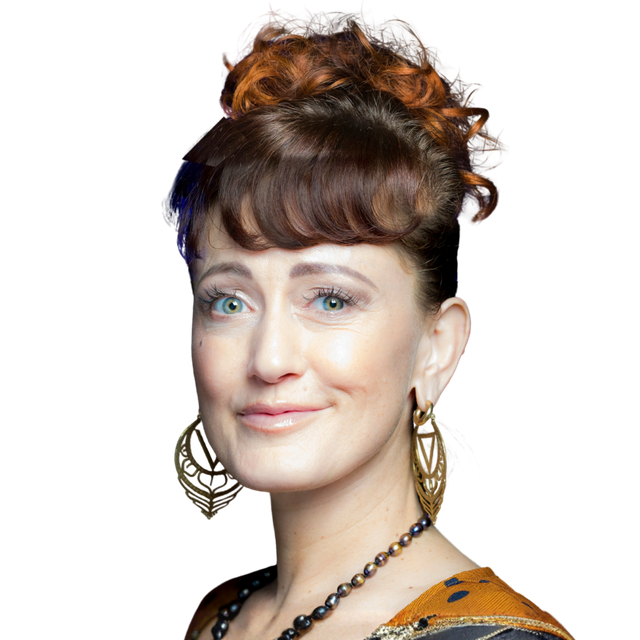
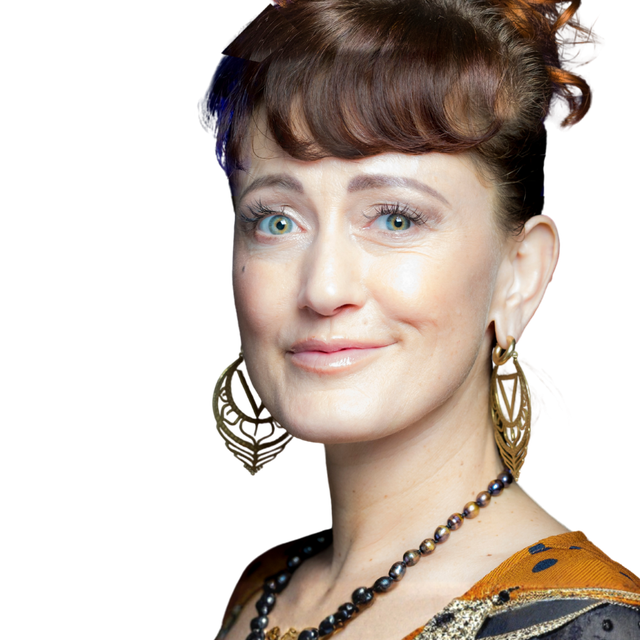
Tight cutouts for all four comedians; refit effects; rename crew seats
Claude-Session: https://claude.ai/code/session_01RNdJaLkAZgGiP9P4nM93yt

diff --git a/site/index.html b/site/index.html
@@ -485,10 +485,10 @@ a.btn.ghost{background:transparent;border:1.5px solid var(--rock);color:var(--ro
     <p>Four seats are taken. Five seats are still open, and you can help fill them.</p>
   </div>
   <div class="board">
-    <div class="slot in star"><div class="pic" data-alter="et" tabindex="0" aria-label="Daniel Flynn: hover or tap for their cosmic alter ego"><img class="portrait" src="assets/img/daniel-flynn-big.jpg?v=2" alt="Daniel Flynn" width="720" height="720" loading="lazy"><svg class="alter" viewBox="0 0 100 100" preserveAspectRatio="xMidYMid slice" aria-hidden="true"><defs><radialGradient id="a-et" cx=".5" cy=".4" r=".8"><stop offset="0" stop-color="#1F5E4A"/><stop offset="1" stop-color="#03110C"/></radialGradient><linearGradient id="et-fade" x1="0" y1="0" x2="0" y2="1"><stop offset="0" stop-color="#000"/><stop offset=".09" stop-color="#fff"/></linearGradient><mask id="et-m" maskContentUnits="userSpaceOnUse"><rect x="0" y="14" width="100" height="86" fill="url(#et-fade)"/></mask><filter id="et-g"><feColorMatrix type="matrix" values=".55 .25 .1 0 0  .3 .9 .15 0 .03  .1 .2 .45 0 0  0 0 0 1 0"/></filter></defs><rect width="100" height="100" fill="url(#a-et)"/><g fill="#fff"><circle cx="8" cy="10" r="0.6"/><circle cx="20" cy="30" r="0.4"/><circle cx="88" cy="12" r="0.7"/><circle cx="76" cy="36" r="0.4"/><circle cx="12" cy="60" r="0.5"/><circle cx="92" cy="58" r="0.6"/><circle cx="6" cy="86" r="0.4"/><circle cx="94" cy="88" r="0.5"/><circle cx="30" cy="8" r="0.4"/><circle cx="68" cy="6" r="0.5"/></g><g transform="translate(80 12)"><ellipse rx="10" ry="3" fill="#B9C3C0"/><ellipse cy="-2" rx="5" ry="3.5" fill="#7FF2C8" opacity=".85"/><path d="M-6 3 L-10 14 H10 L6 3Z" fill="#7FF2C8" opacity=".25"/></g><image href="assets/img/cut/daniel.png" x="7" y="14" width="86" height="86" mask="url(#et-m)" filter="url(#et-g)"/><g fill="none" stroke="#5BE37D" stroke-width="1.6" stroke-linecap="round"><path d="M42 19 Q38 10 32 4"/><path d="M54 19 Q58 10 64 4"/></g><circle cx="32" cy="4" r="3" fill="#7CFF8E"/><circle cx="64" cy="4" r="3" fill="#7CFF8E"/></svg></div><div class="info"><span class="n">01 · Comedian</span><h3>Daniel Flynn</h3><div class="socials"><a href="" target="_blank" rel="noopener" aria-label="Daniel Flynn on Instagram"><svg viewBox="0 0 24 24" aria-hidden="true"><rect x="3" y="3" width="18" height="18" rx="5" fill="none" stroke="currentColor" stroke-width="2"/><circle cx="12" cy="12" r="4" fill="none" stroke="currentColor" stroke-width="2"/><circle cx="17.3" cy="6.7" r="1.3" fill="currentColor"/></svg></a><a href="" target="_blank" rel="noopener" aria-label="Daniel Flynn on TikTok"><svg viewBox="0 0 24 24" aria-hidden="true"><path fill="currentColor" d="M14 3h3a4.5 4.5 0 0 0 4 4v3a7.5 7.5 0 0 1-4-1.2V15a6 6 0 1 1-6-6v3.2a2.8 2.8 0 1 0 3 2.8z"/></svg></a><a href="" target="_blank" rel="noopener" aria-label="Daniel Flynn on YouTube Shorts"><svg viewBox="0 0 24 24" aria-hidden="true"><rect x="2" y="5" width="20" height="14" rx="4" fill="currentColor"/><path d="M10 9v6l5-3z" fill="#0B0B0B"/></svg></a></div><span class="tag">Confirmed</span></div></div>
-    <div class="slot in star"><div class="pic" data-alter="angel" tabindex="0" aria-label="Jesselynn Desmond: hover or tap for their cosmic alter ego"><img class="portrait" src="assets/img/jesselynn-desmond-big.jpg" alt="Jesselynn Desmond" width="720" height="720" loading="lazy"><svg class="alter" viewBox="0 0 100 100" preserveAspectRatio="xMidYMid slice" aria-hidden="true"><defs><radialGradient id="a-an" cx=".5" cy=".3" r=".8"><stop offset="0" stop-color="#FFF8DC"/><stop offset=".6" stop-color="#F6E3A8"/><stop offset="1" stop-color="#E7C66E"/></radialGradient></defs><rect width="100" height="100" fill="url(#a-an)"/><g fill="#fff" stroke="#E9D9A6" stroke-width=".5" opacity=".95"><path d="M40 70 C22 46 4 50 0 66 C8 64 10 70 4 76 C12 74 14 80 8 86 C20 84 30 82 40 78Z"/><path d="M66 70 C84 46 100 50 104 66 C96 64 94 70 100 76 C92 74 90 80 96 86 C84 84 74 82 66 78Z"/></g><image href="assets/img/cut/jesselynn.png" x="7" y="14" width="86" height="86"/><ellipse cx="50" cy="12" rx="12" ry="3.2" fill="none" stroke="#FFD34D" stroke-width="2.2" style="filter:drop-shadow(0 0 2px #FFE58A)"/></svg></div><div class="info"><span class="n">02 · Comedian</span><h3>Jesselynn Desmond</h3><div class="socials"><a href="" target="_blank" rel="noopener" aria-label="Jesselynn Desmond on Instagram"><svg viewBox="0 0 24 24" aria-hidden="true"><rect x="3" y="3" width="18" height="18" rx="5" fill="none" stroke="currentColor" stroke-width="2"/><circle cx="12" cy="12" r="4" fill="none" stroke="currentColor" stroke-width="2"/><circle cx="17.3" cy="6.7" r="1.3" fill="currentColor"/></svg></a><a href="" target="_blank" rel="noopener" aria-label="Jesselynn Desmond on TikTok"><svg viewBox="0 0 24 24" aria-hidden="true"><path fill="currentColor" d="M14 3h3a4.5 4.5 0 0 0 4 4v3a7.5 7.5 0 0 1-4-1.2V15a6 6 0 1 1-6-6v3.2a2.8 2.8 0 1 0 3 2.8z"/></svg></a><a href="" target="_blank" rel="noopener" aria-label="Jesselynn Desmond on YouTube Shorts"><svg viewBox="0 0 24 24" aria-hidden="true"><rect x="2" y="5" width="20" height="14" rx="4" fill="currentColor"/><path d="M10 9v6l5-3z" fill="#0B0B0B"/></svg></a></div><span class="tag">Confirmed</span></div></div>
-    <div class="slot in star"><div class="pic" data-alter="master" tabindex="0" aria-label="Lori Creevay: hover or tap for their cosmic alter ego"><img class="portrait" src="assets/img/lori-creevay-big.jpg" alt="Lori Creevay" width="720" height="720" loading="lazy"><svg class="alter" viewBox="0 0 100 100" preserveAspectRatio="xMidYMid slice" aria-hidden="true"><defs><radialGradient id="a-am" cx=".44" cy=".4" r=".7"><stop offset="0" stop-color="#FFF3FF"/><stop offset=".35" stop-color="#C9A2FF"/><stop offset="1" stop-color="#3A1670"/></radialGradient></defs><rect width="100" height="100" fill="url(#a-am)"/><g stroke="#FFFFFF" stroke-width=".6" opacity=".45"><line x1="44" y1="38" x2="119.0" y2="38.0"/><line x1="44" y1="38" x2="109.0" y2="75.5"/><line x1="44" y1="38" x2="81.5" y2="103.0"/><line x1="44" y1="38" x2="44.0" y2="113.0"/><line x1="44" y1="38" x2="6.5" y2="103.0"/><line x1="44" y1="38" x2="-20.9" y2="75.5"/><line x1="44" y1="38" x2="-31.0" y2="38.0"/><line x1="44" y1="38" x2="-21.0" y2="0.5"/><line x1="44" y1="38" x2="6.5" y2="-26.9"/><line x1="44" y1="38" x2="44.0" y2="-37.0"/><line x1="44" y1="38" x2="81.5" y2="-27.0"/><line x1="44" y1="38" x2="108.9" y2="0.5"/></g><image href="assets/img/cut/lori.png" x="7" y="14" width="86" height="86"/><circle cx="44.4" cy="37.9" r="3" fill="#E9D5FF" opacity=".5"/><circle cx="44.4" cy="37.9" r="1.4" fill="#B26BFF" style="filter:drop-shadow(0 0 2px #fff)"/></svg></div><div class="info"><span class="n">03 · Comedian</span><h3>Lori Creevay</h3><div class="socials"><a href="" target="_blank" rel="noopener" aria-label="Lori Creevay on Instagram"><svg viewBox="0 0 24 24" aria-hidden="true"><rect x="3" y="3" width="18" height="18" rx="5" fill="none" stroke="currentColor" stroke-width="2"/><circle cx="12" cy="12" r="4" fill="none" stroke="currentColor" stroke-width="2"/><circle cx="17.3" cy="6.7" r="1.3" fill="currentColor"/></svg></a><a href="" target="_blank" rel="noopener" aria-label="Lori Creevay on TikTok"><svg viewBox="0 0 24 24" aria-hidden="true"><path fill="currentColor" d="M14 3h3a4.5 4.5 0 0 0 4 4v3a7.5 7.5 0 0 1-4-1.2V15a6 6 0 1 1-6-6v3.2a2.8 2.8 0 1 0 3 2.8z"/></svg></a><a href="" target="_blank" rel="noopener" aria-label="Lori Creevay on YouTube Shorts"><svg viewBox="0 0 24 24" aria-hidden="true"><rect x="2" y="5" width="20" height="14" rx="4" fill="currentColor"/><path d="M10 9v6l5-3z" fill="#0B0B0B"/></svg></a></div><span class="tag">Confirmed</span></div></div>
-    <div class="slot in star"><div class="pic" data-alter="archangel" tabindex="0" aria-label="Dr. David E. Martin: hover or tap for their cosmic alter ego"><img class="portrait" src="assets/img/david-martin-big.jpg" alt="Dr. David E. Martin" width="720" height="720" loading="lazy"><svg class="alter" viewBox="0 0 100 100" preserveAspectRatio="xMidYMid slice" aria-hidden="true"><defs><linearGradient id="d-sky" x1="0" y1="0" x2="0" y2="1"><stop offset="0" stop-color="#BFE3FF"/><stop offset=".7" stop-color="#EAF6FF"/><stop offset="1" stop-color="#FFFFFF"/></linearGradient><linearGradient id="d-fade" x1="0" y1="0" x2="0" y2="1"><stop offset="0" stop-color="#000"/><stop offset=".1" stop-color="#fff"/></linearGradient><mask id="d-m" maskContentUnits="userSpaceOnUse"><rect x="0" y="14" width="100" height="86" fill="url(#d-fade)"/></mask></defs><rect width="100" height="100" fill="url(#d-sky)"/><g fill="#FFFFFF" opacity=".55"><polygon points="56,-5 20,100 34,100"/><polygon points="56,-5 78,100 92,100"/></g><g fill="#FFFFFF"><ellipse cx="14" cy="88" rx="18" ry="7"/><ellipse cx="28" cy="92" rx="16" ry="8"/><ellipse cx="86" cy="90" rx="20" ry="8"/><ellipse cx="70" cy="95" rx="16" ry="7"/></g><g fill="#fff" stroke="#C9DDF0" stroke-width=".5"><path d="M44 66 C26 40 6 40 0 58 C8 56 10 62 3 68 C12 66 14 72 7 78 C20 78 32 76 44 74Z"/><path d="M76 66 C90 40 104 40 108 58 C100 56 98 62 104 68 C96 66 94 72 100 78 C88 78 80 76 76 74Z"/></g><image href="assets/img/cut/david.png" x="7" y="14" width="86" height="86" mask="url(#d-m)"/><ellipse cx="56" cy="9" rx="14" ry="3.6" fill="none" stroke="#FFD34D" stroke-width="2.4" style="filter:drop-shadow(0 0 2px #FFE58A)"/><g fill="#FFE58A"><path d="M20 20l1.2 3 3 1.2-3 1.2-1.2 3-1.2-3-3-1.2 3-1.2z"/><path d="M84 26l1 2.5 2.5 1-2.5 1-1 2.5-1-2.5-2.5-1 2.5-1z"/><path d="M90 8l.8 2 2 .8-2 .8-.8 2-.8-2-2-.8 2-.8z"/></g></svg></div><div class="info"><span class="n">04 · Comedian</span><h3>Dr. David E. Martin</h3><span class="tag">Confirmed</span></div></div>
+    <div class="slot in star"><div class="pic" data-alter="et" tabindex="0" aria-label="Daniel Flynn: hover or tap for their cosmic alter ego"><img class="portrait" src="assets/img/daniel-flynn-tight.jpg" alt="Daniel Flynn" width="720" height="720" loading="lazy"><svg class="alter" viewBox="0 0 100 100" preserveAspectRatio="xMidYMid slice" aria-hidden="true"><defs><radialGradient id="a-et" cx=".5" cy=".4" r=".8"><stop offset="0" stop-color="#1F5E4A"/><stop offset="1" stop-color="#03110C"/></radialGradient><linearGradient id="et-fade" x1="0" y1="0" x2="0" y2="1"><stop offset="0" stop-color="#000"/><stop offset=".09" stop-color="#fff"/></linearGradient><mask id="et-m" maskContentUnits="userSpaceOnUse"><rect x="0" y="14" width="100" height="86" fill="url(#et-fade)"/></mask><filter id="et-g"><feColorMatrix type="matrix" values=".55 .25 .1 0 0  .3 .9 .15 0 .03  .1 .2 .45 0 0  0 0 0 1 0"/></filter></defs><rect width="100" height="100" fill="url(#a-et)"/><g fill="#fff"><circle cx="8" cy="10" r="0.6"/><circle cx="20" cy="30" r="0.4"/><circle cx="88" cy="12" r="0.7"/><circle cx="76" cy="36" r="0.4"/><circle cx="12" cy="60" r="0.5"/><circle cx="92" cy="58" r="0.6"/><circle cx="6" cy="86" r="0.4"/><circle cx="94" cy="88" r="0.5"/><circle cx="30" cy="8" r="0.4"/><circle cx="68" cy="6" r="0.5"/></g><g transform="translate(80 12)"><ellipse rx="10" ry="3" fill="#B9C3C0"/><ellipse cy="-2" rx="5" ry="3.5" fill="#7FF2C8" opacity=".85"/><path d="M-6 3 L-10 14 H10 L6 3Z" fill="#7FF2C8" opacity=".25"/></g><image href="assets/img/cut/daniel.png?v=2" x="7" y="14" width="86" height="86" mask="url(#et-m)" filter="url(#et-g)"/><g fill="none" stroke="#5BE37D" stroke-width="1.6" stroke-linecap="round"><path d="M41 17 Q37 9 32 4"/><path d="M53 17 Q57 9 62 4"/></g><circle cx="32" cy="4" r="3" fill="#7CFF8E"/><circle cx="62" cy="4" r="3" fill="#7CFF8E"/></svg></div><div class="info"><span class="n">01 · Comedian</span><h3>Daniel Flynn</h3><div class="socials"><a href="" target="_blank" rel="noopener" aria-label="Daniel Flynn on Instagram"><svg viewBox="0 0 24 24" aria-hidden="true"><rect x="3" y="3" width="18" height="18" rx="5" fill="none" stroke="currentColor" stroke-width="2"/><circle cx="12" cy="12" r="4" fill="none" stroke="currentColor" stroke-width="2"/><circle cx="17.3" cy="6.7" r="1.3" fill="currentColor"/></svg></a><a href="" target="_blank" rel="noopener" aria-label="Daniel Flynn on TikTok"><svg viewBox="0 0 24 24" aria-hidden="true"><path fill="currentColor" d="M14 3h3a4.5 4.5 0 0 0 4 4v3a7.5 7.5 0 0 1-4-1.2V15a6 6 0 1 1-6-6v3.2a2.8 2.8 0 1 0 3 2.8z"/></svg></a><a href="" target="_blank" rel="noopener" aria-label="Daniel Flynn on YouTube Shorts"><svg viewBox="0 0 24 24" aria-hidden="true"><rect x="2" y="5" width="20" height="14" rx="4" fill="currentColor"/><path d="M10 9v6l5-3z" fill="#0B0B0B"/></svg></a></div><span class="tag">Confirmed</span></div></div>
+    <div class="slot in star"><div class="pic" data-alter="angel" tabindex="0" aria-label="Jesselynn Desmond: hover or tap for their cosmic alter ego"><img class="portrait" src="assets/img/jesselynn-desmond-tight.jpg" alt="Jesselynn Desmond" width="720" height="720" loading="lazy"><svg class="alter" viewBox="0 0 100 100" preserveAspectRatio="xMidYMid slice" aria-hidden="true"><defs><radialGradient id="a-an" cx=".5" cy=".3" r=".8"><stop offset="0" stop-color="#FFF8DC"/><stop offset=".6" stop-color="#F6E3A8"/><stop offset="1" stop-color="#E7C66E"/></radialGradient></defs><linearGradient id="j-fade" x1="0" y1="0" x2="0" y2="1"><stop offset="0" stop-color="#000"/><stop offset=".1" stop-color="#fff"/></linearGradient><mask id="j-m" maskContentUnits="userSpaceOnUse"><rect x="0" y="14" width="100" height="86" fill="url(#j-fade)"/></mask><rect width="100" height="100" fill="url(#a-an)"/><g fill="#fff" stroke="#E9D9A6" stroke-width=".5" opacity=".95"><path d="M40 70 C22 46 4 50 0 66 C8 64 10 70 4 76 C12 74 14 80 8 86 C20 84 30 82 40 78Z"/><path d="M66 70 C84 46 100 50 104 66 C96 64 94 70 100 76 C92 74 90 80 96 86 C84 84 74 82 66 78Z"/></g><image href="assets/img/cut/jesselynn.png?v=2" x="7" y="14" width="86" height="86" mask="url(#j-m)"/><ellipse cx="52.4" cy="9" rx="13" ry="3.4" fill="none" stroke="#FFD34D" stroke-width="2.2" style="filter:drop-shadow(0 0 2px #FFE58A)"/></svg></div><div class="info"><span class="n">02 · Comedian</span><h3>Jesselynn Desmond</h3><div class="socials"><a href="" target="_blank" rel="noopener" aria-label="Jesselynn Desmond on Instagram"><svg viewBox="0 0 24 24" aria-hidden="true"><rect x="3" y="3" width="18" height="18" rx="5" fill="none" stroke="currentColor" stroke-width="2"/><circle cx="12" cy="12" r="4" fill="none" stroke="currentColor" stroke-width="2"/><circle cx="17.3" cy="6.7" r="1.3" fill="currentColor"/></svg></a><a href="" target="_blank" rel="noopener" aria-label="Jesselynn Desmond on TikTok"><svg viewBox="0 0 24 24" aria-hidden="true"><path fill="currentColor" d="M14 3h3a4.5 4.5 0 0 0 4 4v3a7.5 7.5 0 0 1-4-1.2V15a6 6 0 1 1-6-6v3.2a2.8 2.8 0 1 0 3 2.8z"/></svg></a><a href="" target="_blank" rel="noopener" aria-label="Jesselynn Desmond on YouTube Shorts"><svg viewBox="0 0 24 24" aria-hidden="true"><rect x="2" y="5" width="20" height="14" rx="4" fill="currentColor"/><path d="M10 9v6l5-3z" fill="#0B0B0B"/></svg></a></div><span class="tag">Confirmed</span></div></div>
+    <div class="slot in star"><div class="pic" data-alter="master" tabindex="0" aria-label="Lori Creevay: hover or tap for their cosmic alter ego"><img class="portrait" src="assets/img/lori-creevay-tight.jpg" alt="Lori Creevay" width="720" height="720" loading="lazy"><svg class="alter" viewBox="0 0 100 100" preserveAspectRatio="xMidYMid slice" aria-hidden="true"><defs><radialGradient id="a-am" cx=".47" cy=".31" r=".7"><stop offset="0" stop-color="#FFF3FF"/><stop offset=".35" stop-color="#C9A2FF"/><stop offset="1" stop-color="#3A1670"/></radialGradient></defs><linearGradient id="l-fade" x1="0" y1="0" x2="0" y2="1"><stop offset="0" stop-color="#000"/><stop offset=".1" stop-color="#fff"/></linearGradient><mask id="l-m" maskContentUnits="userSpaceOnUse"><rect x="0" y="14" width="100" height="86" fill="url(#l-fade)"/></mask><rect width="100" height="100" fill="url(#a-am)"/><g stroke="#FFFFFF" stroke-width=".6" opacity=".45"><line x1="47" y1="31" x2="122.0" y2="31.0"/><line x1="47" y1="31" x2="112.0" y2="68.5"/><line x1="47" y1="31" x2="84.5" y2="96.0"/><line x1="47" y1="31" x2="47.0" y2="106.0"/><line x1="47" y1="31" x2="9.5" y2="96.0"/><line x1="47" y1="31" x2="-17.9" y2="68.5"/><line x1="47" y1="31" x2="-28.0" y2="31.0"/><line x1="47" y1="31" x2="-18.0" y2="-6.5"/><line x1="47" y1="31" x2="9.5" y2="-33.9"/><line x1="47" y1="31" x2="47.0" y2="-44.0"/><line x1="47" y1="31" x2="84.5" y2="-34.0"/><line x1="47" y1="31" x2="111.9" y2="-6.5"/></g><image href="assets/img/cut/lori.png?v=2" x="7" y="14" width="86" height="86" mask="url(#l-m)"/><circle cx="48.5" cy="35" r="3" fill="#E9D5FF" opacity=".5"/><circle cx="48.5" cy="35" r="1.4" fill="#B26BFF" style="filter:drop-shadow(0 0 2px #fff)"/></svg></div><div class="info"><span class="n">03 · Comedian</span><h3>Lori Creevay</h3><div class="socials"><a href="" target="_blank" rel="noopener" aria-label="Lori Creevay on Instagram"><svg viewBox="0 0 24 24" aria-hidden="true"><rect x="3" y="3" width="18" height="18" rx="5" fill="none" stroke="currentColor" stroke-width="2"/><circle cx="12" cy="12" r="4" fill="none" stroke="currentColor" stroke-width="2"/><circle cx="17.3" cy="6.7" r="1.3" fill="currentColor"/></svg></a><a href="" target="_blank" rel="noopener" aria-label="Lori Creevay on TikTok"><svg viewBox="0 0 24 24" aria-hidden="true"><path fill="currentColor" d="M14 3h3a4.5 4.5 0 0 0 4 4v3a7.5 7.5 0 0 1-4-1.2V15a6 6 0 1 1-6-6v3.2a2.8 2.8 0 1 0 3 2.8z"/></svg></a><a href="" target="_blank" rel="noopener" aria-label="Lori Creevay on YouTube Shorts"><svg viewBox="0 0 24 24" aria-hidden="true"><rect x="2" y="5" width="20" height="14" rx="4" fill="currentColor"/><path d="M10 9v6l5-3z" fill="#0B0B0B"/></svg></a></div><span class="tag">Confirmed</span></div></div>
+    <div class="slot in star"><div class="pic" data-alter="archangel" tabindex="0" aria-label="Dr. David E. Martin: hover or tap for their cosmic alter ego"><img class="portrait" src="assets/img/david-martin-tight.jpg" alt="Dr. David E. Martin" width="720" height="720" loading="lazy"><svg class="alter" viewBox="0 0 100 100" preserveAspectRatio="xMidYMid slice" aria-hidden="true"><defs><linearGradient id="d-sky" x1="0" y1="0" x2="0" y2="1"><stop offset="0" stop-color="#BFE3FF"/><stop offset=".7" stop-color="#EAF6FF"/><stop offset="1" stop-color="#FFFFFF"/></linearGradient><linearGradient id="d-fade" x1="0" y1="0" x2="0" y2="1"><stop offset="0" stop-color="#000"/><stop offset=".1" stop-color="#fff"/></linearGradient><mask id="d-m" maskContentUnits="userSpaceOnUse"><rect x="0" y="14" width="100" height="86" fill="url(#d-fade)"/></mask></defs><rect width="100" height="100" fill="url(#d-sky)"/><g fill="#FFFFFF" opacity=".55"><polygon points="56,-5 20,100 34,100"/><polygon points="56,-5 78,100 92,100"/></g><g fill="#FFFFFF"><ellipse cx="14" cy="88" rx="18" ry="7"/><ellipse cx="28" cy="92" rx="16" ry="8"/><ellipse cx="86" cy="90" rx="20" ry="8"/><ellipse cx="70" cy="95" rx="16" ry="7"/></g><g fill="#fff" stroke="#C9DDF0" stroke-width=".5"><path d="M44 66 C26 40 6 40 0 58 C8 56 10 62 3 68 C12 66 14 72 7 78 C20 78 32 76 44 74Z"/><path d="M76 66 C90 40 104 40 108 58 C100 56 98 62 104 68 C96 66 94 72 100 78 C88 78 80 76 76 74Z"/></g><image href="assets/img/cut/david.png?v=2" x="7" y="14" width="86" height="86" mask="url(#d-m)"/><ellipse cx="56" cy="9" rx="14" ry="3.6" fill="none" stroke="#FFD34D" stroke-width="2.4" style="filter:drop-shadow(0 0 2px #FFE58A)"/><g fill="#FFE58A"><path d="M20 20l1.2 3 3 1.2-3 1.2-1.2 3-1.2-3-3-1.2 3-1.2z"/><path d="M84 26l1 2.5 2.5 1-2.5 1-1 2.5-1-2.5-2.5-1 2.5-1z"/><path d="M90 8l.8 2 2 .8-2 .8-.8 2-.8-2-2-.8 2-.8z"/></g></svg></div><div class="info"><span class="n">04 · Comedian</span><h3>Dr. David E. Martin</h3><span class="tag">Confirmed</span></div></div>
     <div class="slot open"><span class="n">05 · Comedian</span><h3>Your name here</h3><span class="bio"><a href="seat.html">Want this seat? →</a></span><span class="tag">Open</span></div>
     <div class="slot open"><span class="n">06 · Comedian</span><h3>Your name here</h3><span class="bio"><a href="seat.html">Want this seat? →</a></span><span class="tag">Open</span></div>
     <div class="slot open"><span class="n">07 · Comedian</span><h3>Your name here</h3><span class="bio"><a href="seat.html">Want this seat? →</a></span><span class="tag">Open</span></div>
@@ -498,8 +498,8 @@ a.btn.ghost{background:transparent;border:1.5px solid var(--rock);color:var(--ro
   <div class="stack" style="margin-top:40px"><div class="eyebrow">Behind the camera</div><h3 style="margin:0;font:400 1.6rem/1.1 var(--display)">The crew</h3><p>Three crew seats turn the chaos into clips.</p></div>
   <div class="board">
     <div class="slot open"><span class="n">Editor</span><h3>Your name here</h3><span class="bio"><a href="seat.html">Want this seat? →</a></span><span class="tag">Open</span></div>
-    <div class="slot open"><span class="n">Editor</span><h3>Your name here</h3><span class="bio"><a href="seat.html">Want this seat? →</a></span><span class="tag">Open</span></div>
-    <div class="slot open"><span class="n">Makeup and FX artist</span><h3>Your name here</h3><span class="bio"><a href="seat.html">Want this seat? →</a></span><span class="tag">Open</span></div>
+    <div class="slot open"><span class="n">Editor/Special FX</span><h3>Your name here</h3><span class="bio"><a href="seat.html">Want this seat? →</a></span><span class="tag">Open</span></div>
+    <div class="slot open"><span class="n">Hair/Makeup/Costumes</span><h3>Your name here</h3><span class="bio"><a href="seat.html">Want this seat? →</a></span><span class="tag">Open</span></div>
   </div>
 </div></section>
 

diff --git a/site/assets/js/fund-config.js b/site/assets/js/fund-config.js
@@ -25,7 +25,7 @@ window.FUND = {
     { id: 'tags', icon: '🎞', title: 'The lab stamp', desc: 'Our opening and closing tags, branded on every clip that escapes the house.', unit: 400, count: 1 },
     { id: 'insurance', icon: '🦺', title: 'Lab safety', desc: 'Event insurance, in case the experiment gets out of hand.', unit: 350, count: 1, covered: 'City of Sedona' },
     { id: 'comedian', icon: '🎤', title: 'Sponsor a test subject', desc: 'Each of the nine comedians gets a $400 stipend. They signed the waiver. Mostly.', unit: 400, count: 9, label: 'comedian', phase: 'nice' },
-    { id: 'editor', icon: '🎬', title: 'Fund a lab technician', desc: '$400 stipends for the crew: two editors who turn pure chaos into 60-second clips, plus a makeup and FX artist.', unit: 400, count: 3, label: 'crew member', phase: 'nice' },
+    { id: 'editor', icon: '🎬', title: 'Fund a lab technician', desc: '$400 stipends for the crew: an editor and an editor/special FX who turn pure chaos into 60-second clips, plus hair/makeup/costumes.', unit: 400, count: 3, label: 'crew member', phase: 'nice' },
     { id: 'prize', icon: '🏆', title: 'The big prize', desc: '$600 to the team behind the top clip of the house weekend. Glory, plus rent money.', unit: 600, count: 1, coveredAmount: 374.89 },
     { id: 'bounty', icon: '🏆', title: 'The prize pot', desc: '$300 each quarter to the team with the most upvoted clip. Competition is good for science.', unit: 300, count: 4, label: 'quarter', phase: 2 },
     { id: 'boost', icon: '🚀', title: 'Launch fuel', desc: '$300 each quarter to boost the clips into the algorithm\'s orbit.', unit: 300, count: 4, label: 'quarter', phase: 2 }
